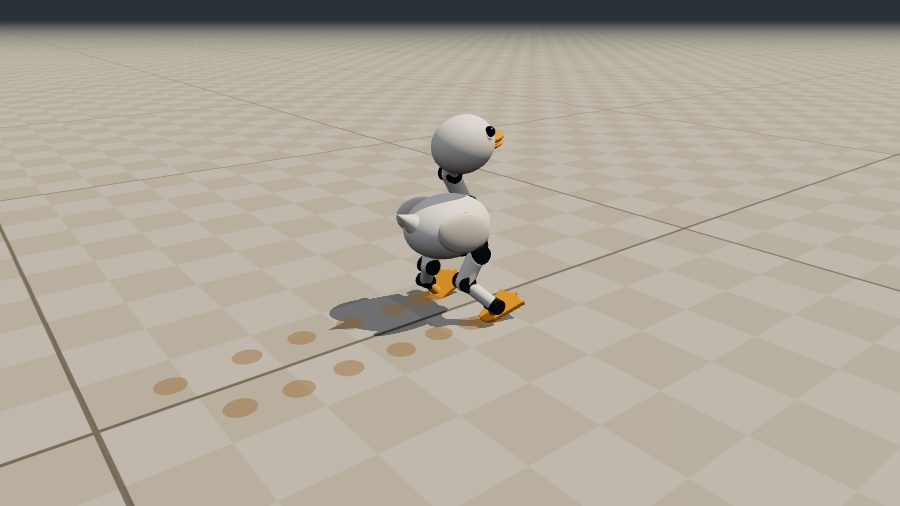
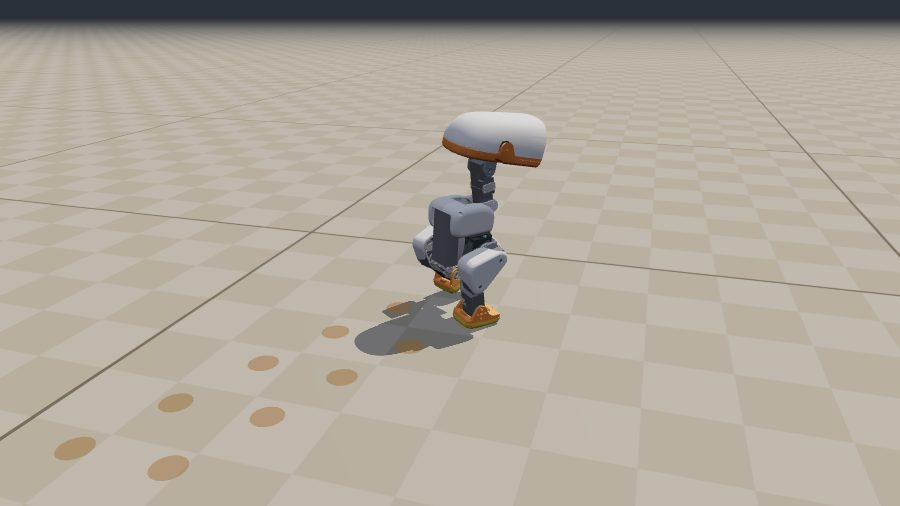
apps/web: microduck cover retaken; single-file games as dist-single/<game>.html
The cover shows the CAD duck walking on the bg-sim model. npm run build:single
now builds all four games (build_single.mjs), one flat file each, without the
covers folder.

diff --git a/apps/web/vite.config.ts b/apps/web/vite.config.ts
@@ -20,8 +20,11 @@ const pages = (): Record<string, string> => {
   return found;
 };
 
-/** Puts the bundle inside the HTML: a page opened from file:// cannot load modules or fetch. */
-const inlineEverything = (): Plugin => ({
+/**
+ * Puts the bundle inside the HTML: a page opened from file:// cannot load modules or fetch. The page
+ * is written as `<game>.html`, next to the other games' files.
+ */
+const inlineEverything = (game: string): Plugin => ({
   name: "bgsim-inline",
   enforce: "post",
   generateBundle(_, bundle) {
@@ -47,23 +50,28 @@ const inlineEverything = (): Plugin => ({
         }
       }
       html.source = text;
+      html.fileName = `${game}.html`;
     }
   },
 });
 
 export default defineConfig(({ mode }) => {
   const single = mode === "single";
+  const game = process.env.GAME ?? "f16";
   return {
     base: "./",
-    plugins: single ? [inlineEverything()] : [],
+    plugins: single ? [inlineEverything(game)] : [],
+    // One file per game and nothing else: no covers, and the other games' files stay.
+    publicDir: single ? false : "public",
     build: {
       target: "es2022",
       chunkSizeWarningLimit: 4000,
       outDir: single ? "dist-single" : "dist",
+      emptyOutDir: !single,
       assetsInlineLimit: single ? 100_000_000 : 4096,
       cssCodeSplit: !single,
       rollupOptions: {
-        input: single ? { [process.env.GAME ?? "f16"]: resolve(import.meta.dirname, process.env.GAME ?? "f16", "index.html") } : pages(),
+        input: single ? { [game]: resolve(import.meta.dirname, game, "index.html") } : pages(),
         output: single ? { inlineDynamicImports: true } : {},
       },
     },

diff --git a/apps/web/README.md b/apps/web/README.md
@@ -17,7 +17,7 @@ Then open http://127.0.0.1:8831/.
 The start lists of the F-16, the Cessna and the A109 (`src/<game>/starts.json`) are committed. They are trims from the design scripts of the examples; `uv run build_fmu.py --starts` writes them again, which is needed only when a model's trim changes.
 
 - `npm run build` writes a static site to `dist/`.
-- `GAME=f16 npm run build:single` writes one self-contained file to `dist-single/f16/index.html`. Also for `cessna`, `a109` and `cars`.
+- `npm run build:single` writes each game as one self-contained file: `dist-single/f16.html`, `cessna.html`, `a109.html` and `cars.html`. `node build_single.mjs f16` builds one.
 - `npx vitest run` runs the unit tests and the scripted pilots.
 - `node tests/keys.mjs out.png` flies with real key presses against the dev server.
 - `node tests/weapons-keys.mjs out.png` selects Intercept, waits for the lock and fires.
@@ -63,7 +63,7 @@ The velstand run in `tests/microduck.test.ts` reads `MICRODUCK_SECONDS` (run len
 - **Policies** are in `src/microduck/policies/`, at a pinned revision of https://huggingface.co/pollen-robotics/microduck-policies (Apache-2.0); their README has the revision, the hashes and how to fetch them again. The walk policy loads first; the sit-stand, ground pick, roulade and kicks follow in the background.
 - **The duck** is drawn with Pollen Robotics' CAD parts from microduck_rl (`src/microduck/duck.glb`, 77k triangles, 2.4 MB: a node per body and the lower beak on the mouth servo's axis), written by `examples/microduck/design/build_visuals.py`. **These meshes are CC BY-NC-SA 4.0, non-commercial only** (`src/microduck/duck.glb.NOTICE`). If the file does not load, the page draws the procedural duck (shapes sized to the joints) and logs a warning.
 - **ONNX Runtime Web** (`onnxruntime-web`, the plain WebAssembly backend, one thread, so no cross-origin isolation is needed) is imported only by this page and only when it starts: 75 kB of script and a 14.8 MB Wasm (3.9 MB gzipped), which no other game loads. A recurrent export (`h_in`/`c_in`) works too.
-- **Single file: not supported.** `GAME=microduck npm run build:single` makes a 66 MB file (the runtime's Wasm and the six policies as base64), and in it the runtime does not even start (Vite's preload helper is missing once dynamic imports are inlined): the page runs with the policy off and says so. Serve `dist/` instead.
+- **Single file: not supported.** A single-file build of it (`GAME=microduck npx vite build --mode single`) makes a 66 MB file (the runtime's Wasm and the six policies as base64), and in it the runtime does not even start (Vite's preload helper is missing once dynamic imports are inlined): the page runs with the policy off and says so. Serve `dist/` instead.
 
 ### The FMU the page expects
 

diff --git a/plan/WEB_APPS_PLAN.md b/plan/WEB_APPS_PLAN.md
@@ -90,7 +90,7 @@ cd apps/web
 npm ci
 uv run build_fmu.py                                      # once: exports the FMUs and compiles them to Wasm
 npm run dev                                              # or: npm run build, then serve dist/
-GAME=f16 npm run build:single                            # dist-single/f16/index.html
+npm run build:single                                     # dist-single/<game>.html, one file per game
 npx vitest run
 node tests/keys.mjs out.png                              # real key presses against the dev server
 ```
